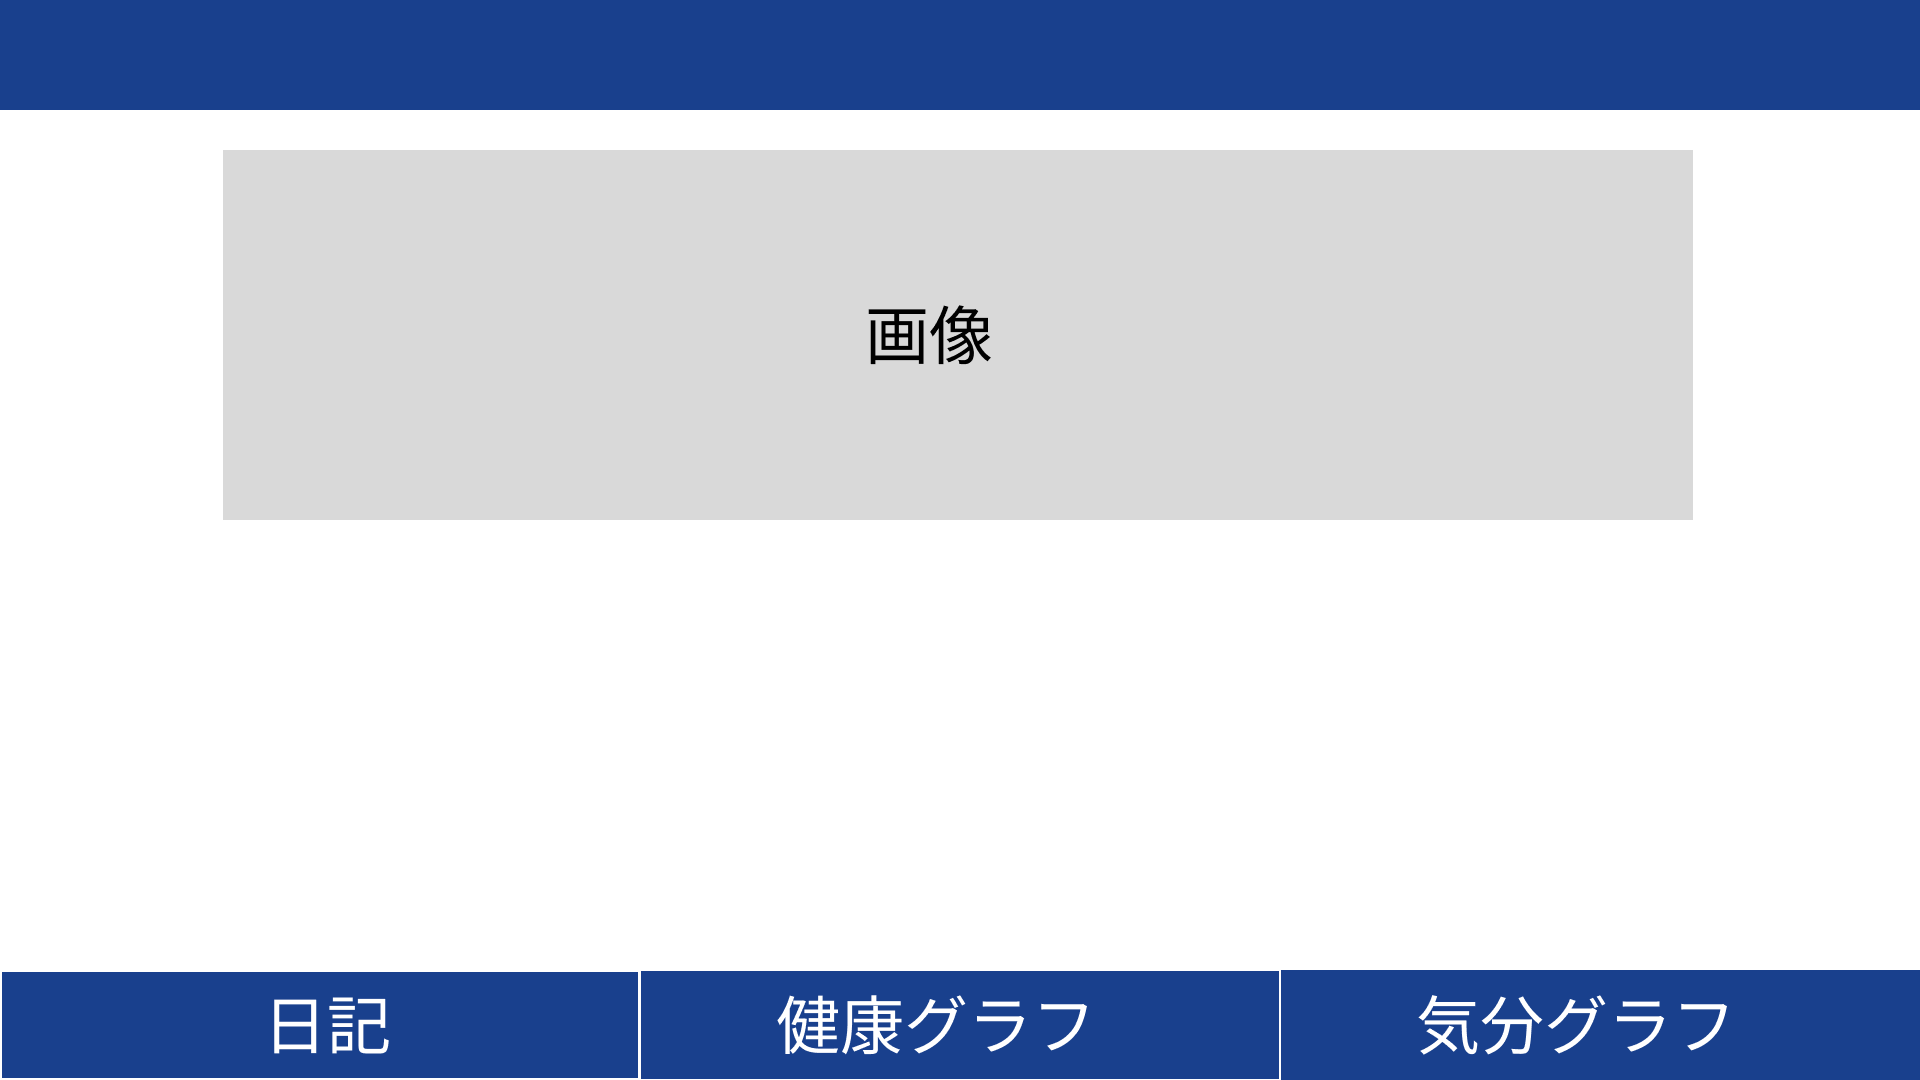
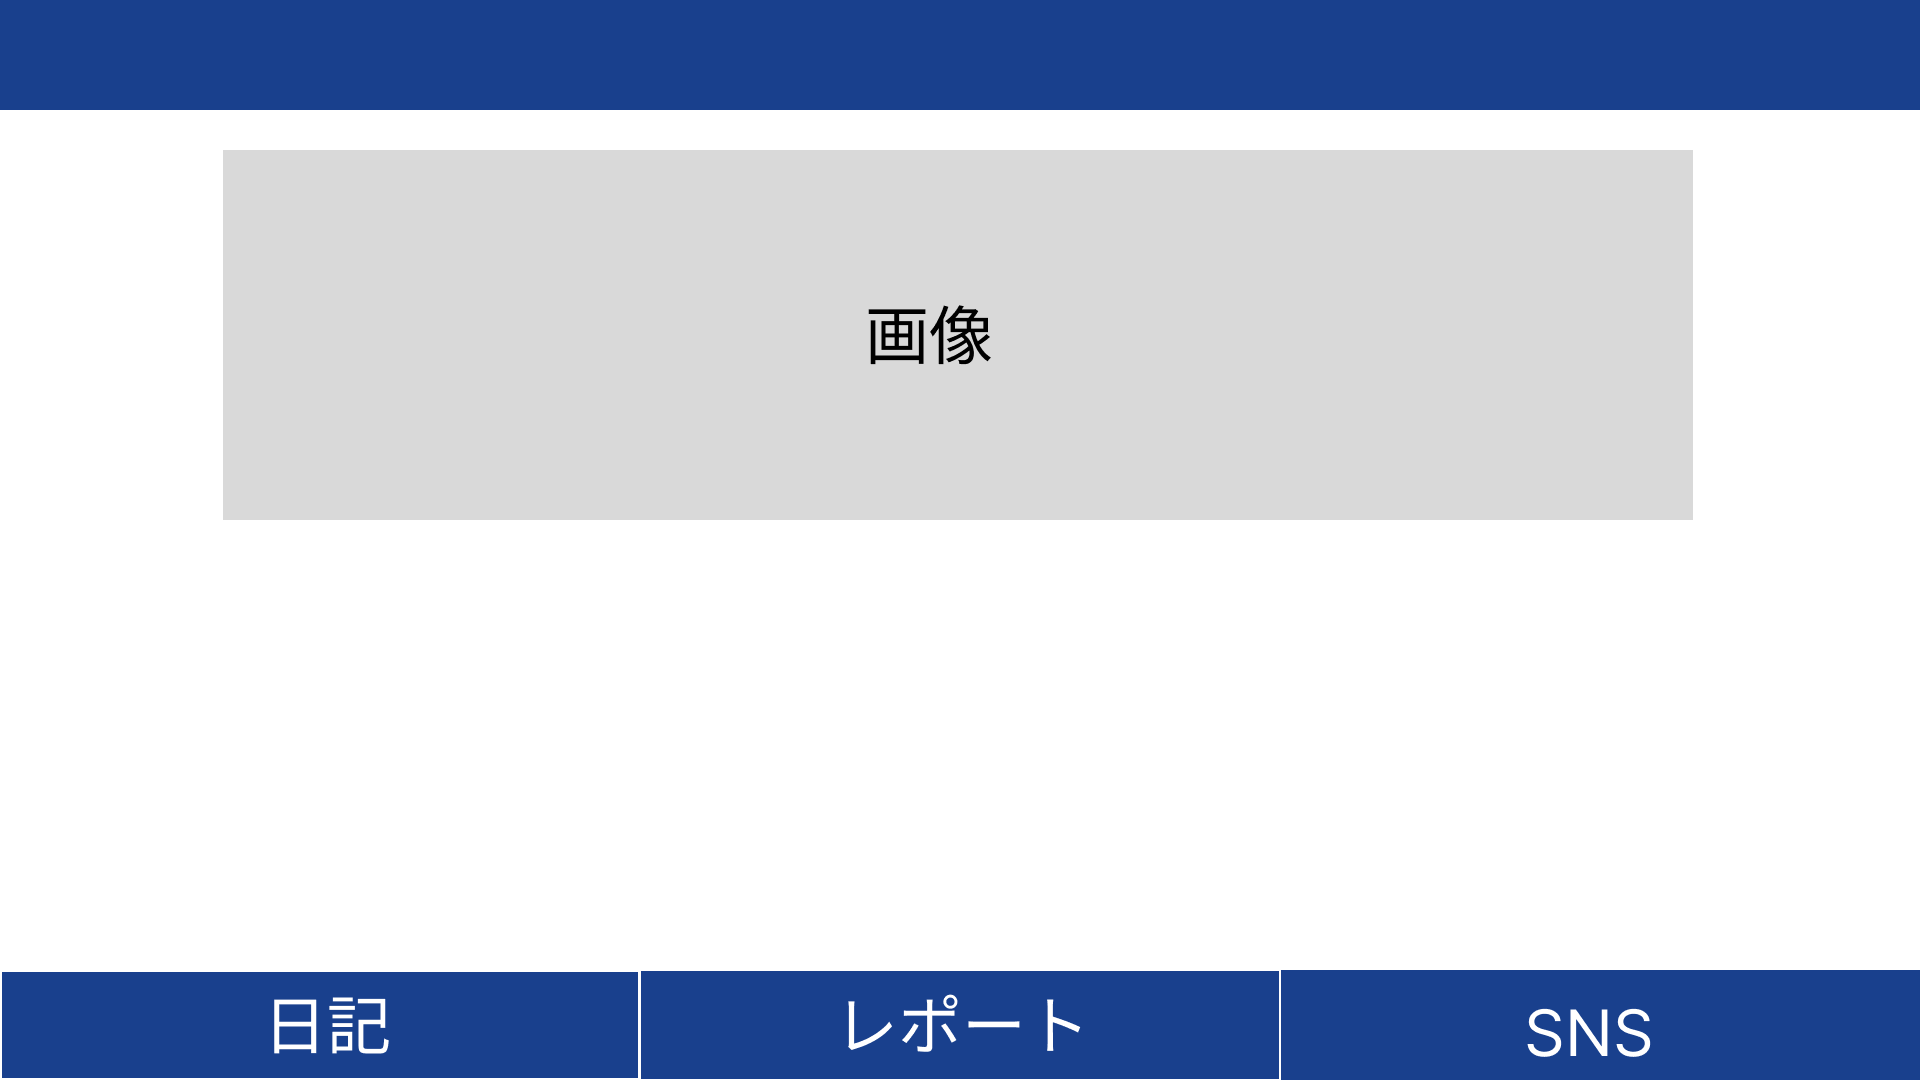
a

Changed region(s): [[0.7188, 0.9167, 0.9062, 0.9778], [0.4062, 0.9167, 0.5625, 0.9778]]

diff --git a/design/design.md b/design/design.md
@@ -8,11 +8,15 @@
             1. [日記形式](#日記形式)
             2. [コラム法形式](#コラム法形式)
    3. [メンタルグラフページ](#メンタルグラフページ)
-   4. [ログイン画面](#ログイン画面)
+   4. [SNSページ](#snsページ)
+   5. [ログイン画面](#ログイン画面)
 3. [機能仕様](#機能仕様)
    1. [ユーザ認証](#ユーザ認証)
-   2. [](#)
 4. [データ管理(ER図)](#データ管理er図)
+   1. [カレンダーイベント](#カレンダーイベント)
+   2. [メンタルデータ](#メンタルデータ)
+   3. [SNS](#sns)
+   4. [ユーザデータ](#ユーザデータ)
 5. [API定義書](#api定義書)
 6. [データ解析について](#データ解析について)
 
@@ -83,20 +87,33 @@
 
 * グラフを表示する
 
+### SNSページ
+
+* SNSページを表示する
+
 ### ログイン画面
 
+* ログイン画面を表示する
 
 ## 機能仕様
 
 ### ユーザ認証
 
-### 
-
 ## データ管理(ER図)
+
+### カレンダーイベント
+
+### メンタルデータ
+
+### SNS
+
+### ユーザデータ
 
 ## API定義書
 
 [API定義書](https://github.com/betashort/mental-health-diary-app/blob/main/design/API/api.md)
 
 ## データ解析について
+
+
 

diff --git a/README.md b/README.md
@@ -1,6 +1,6 @@
 # mental-health-diary-app
 
-## Document
+## 設計ドキュメント
 
 [設計書](https://github.com/betashort/mental-health-diary-app/blob/main/design/design.md)
 
@@ -8,6 +8,14 @@
 
 [Research](https://github.com/betashort/mental-health-diary-app/blob/main/design/research/research.md)
 
-## Tips
+## 環境構築Tips
 
 [Tips](https://github.com/betashort/mental-health-diary-app/blob/main/design/tips.md)
+
+### 技術スタック
+
+* OAuth
+* NextAuth
+* Fullcalendar
+* Modal by MUI
+* 
